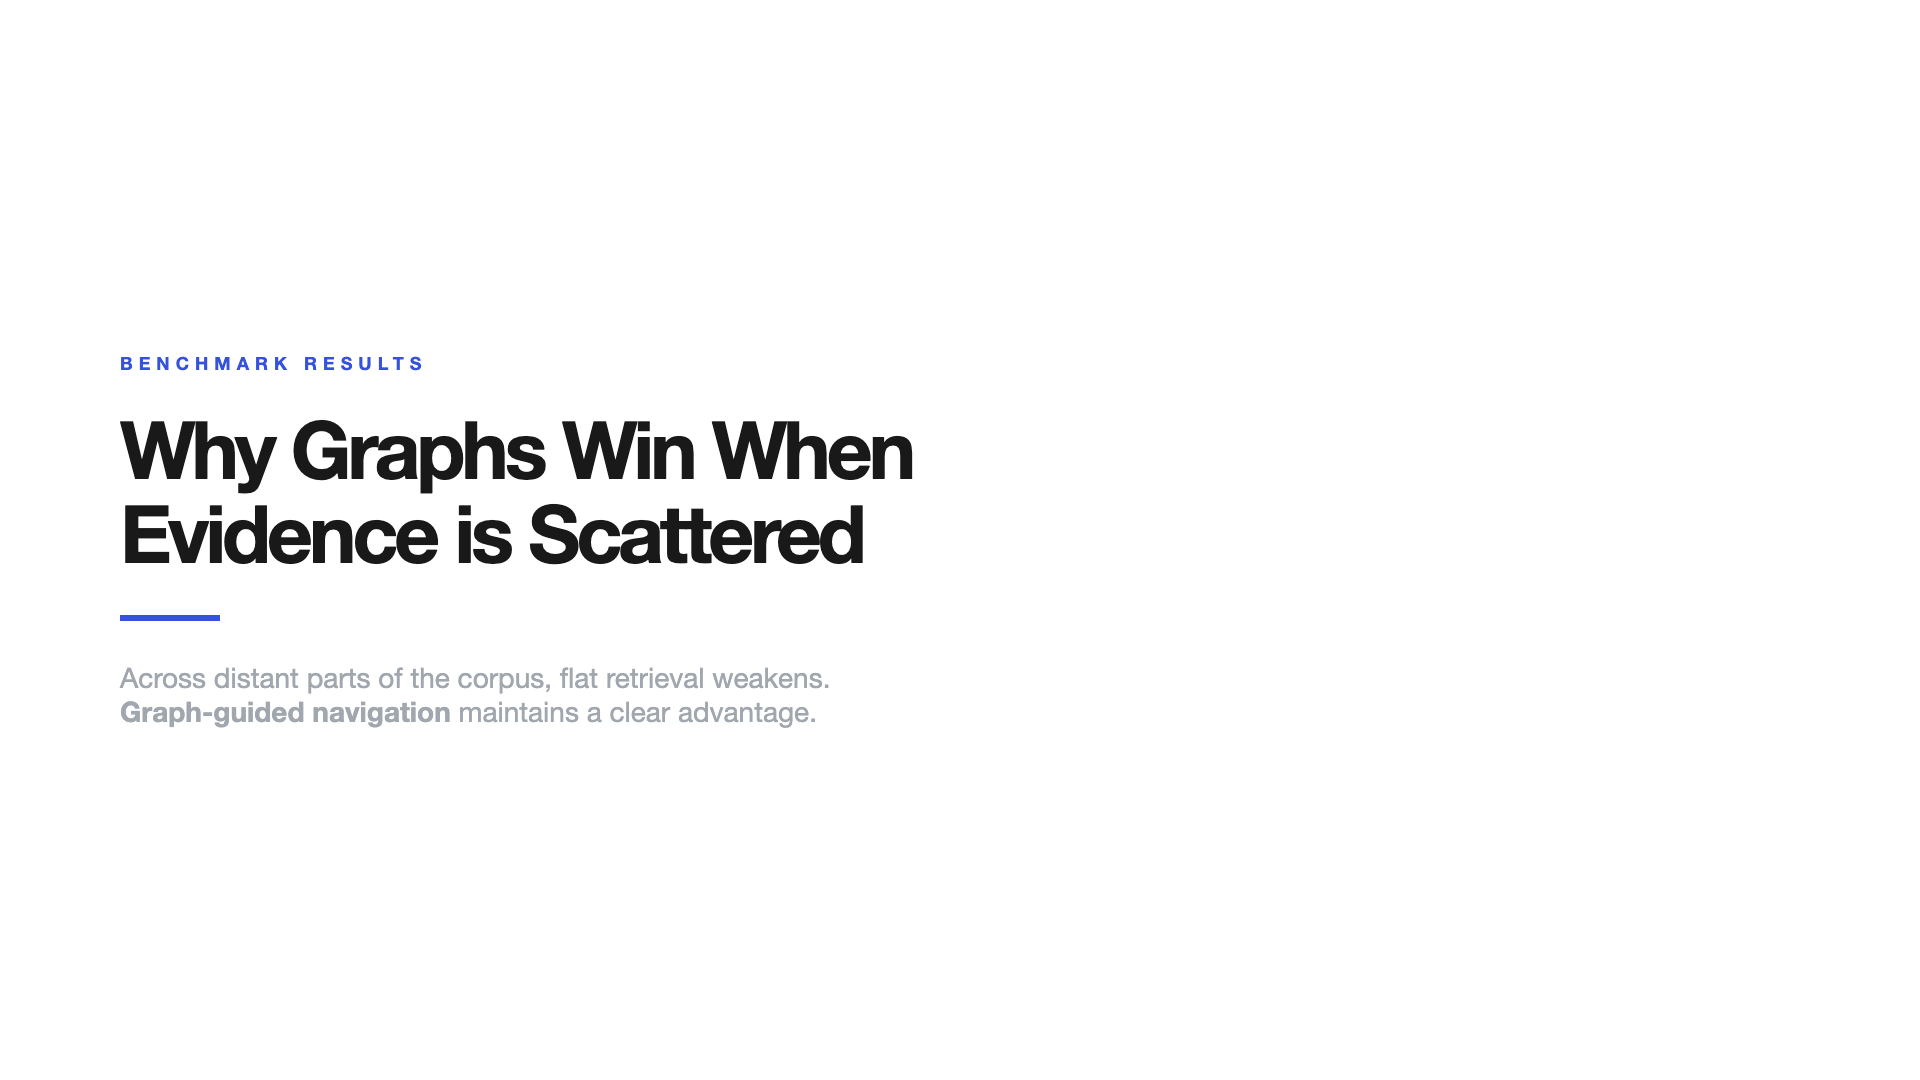
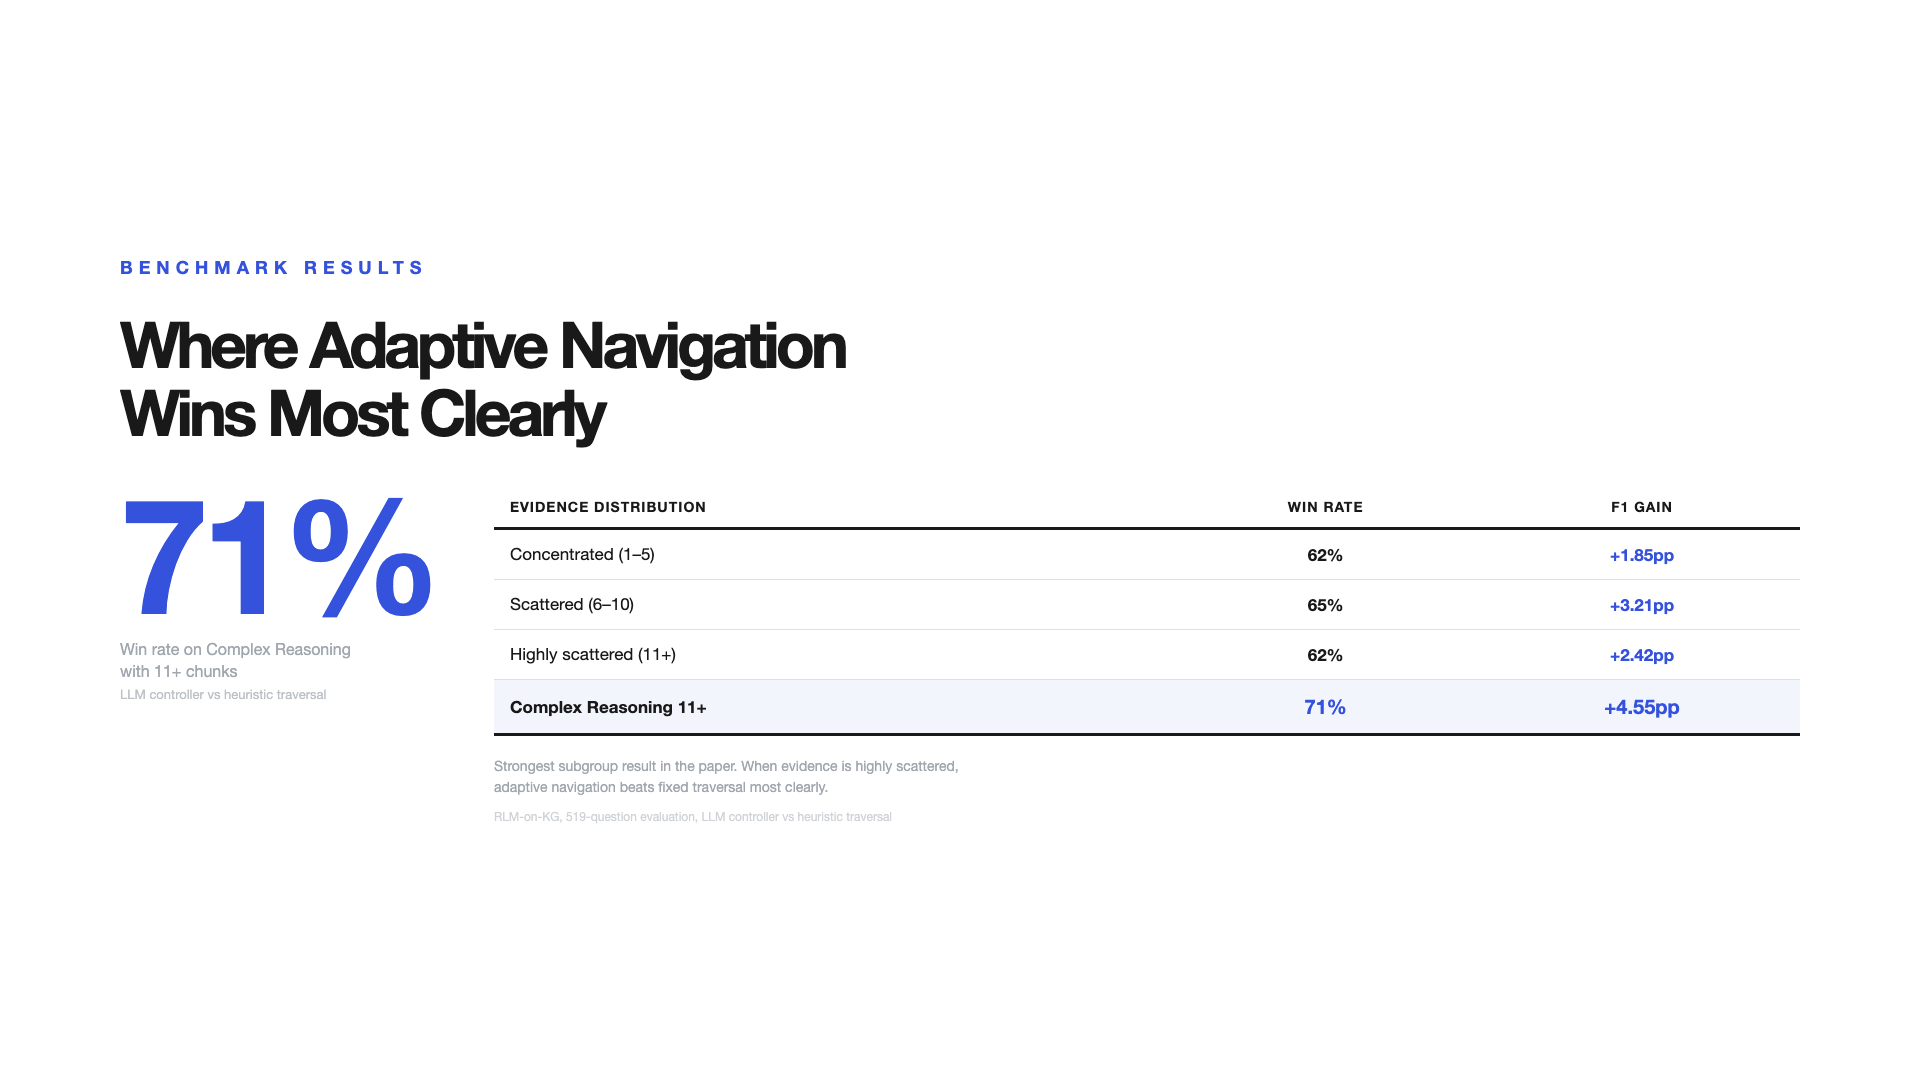
feat: revised slide 22 with 71% benchmark data table and updated copy

diff --git a/generate_slides_v2_bold.py b/generate_slides_v2_bold.py
@@ -341,11 +341,51 @@ def slide_21():
 def slide_22():
     return light(f"""
     <div class="section">Benchmark Results</div>
-    <div class="h" style="font-size:80px;">Why Graphs Win When<br>Evidence is Scattered</div>
-    <div class="bar" style="width:100px;background:{T['sky']};"></div>
-    <div style="font-size:28px;color:{T['gray']};margin-top:40px;max-width:900px;">
-      Across distant parts of the corpus, flat retrieval weakens.<br>
-      <b>Graph-guided navigation</b> maintains a clear advantage.</div>""")
+    <div class="h" style="font-size:64px;margin-bottom:40px;">Where Adaptive Navigation<br>Wins Most Clearly</div>
+    <div style="display:flex;gap:60px;align-items:flex-start;">
+      <!-- LEFT: Big number -->
+      <div style="flex:0 0 280px;">
+        <div style="font-size:160px;font-weight:900;line-height:0.85;letter-spacing:-8px;color:{T['sky']};">71%</div>
+        <div style="font-size:16px;color:{T['gray']};margin-top:16px;line-height:1.4;">
+          Win rate on Complex Reasoning<br>with 11+ chunks<br>
+          <span style="font-size:13px;color:{T['gray']};opacity:0.7;">LLM controller vs heuristic traversal</span></div>
+      </div>
+      <!-- RIGHT: Table -->
+      <div style="flex:1;">
+        <table style="width:100%;border-collapse:collapse;font-size:17px;color:{T['dark2']};">
+          <tr style="border-bottom:3px solid {T['dark2']};">
+            <th style="text-align:left;padding:12px 16px;font-weight:900;font-size:14px;letter-spacing:1px;text-transform:uppercase;">Evidence Distribution</th>
+            <th style="text-align:center;padding:12px 16px;font-weight:900;font-size:14px;letter-spacing:1px;text-transform:uppercase;">Win Rate</th>
+            <th style="text-align:center;padding:12px 16px;font-weight:900;font-size:14px;letter-spacing:1px;text-transform:uppercase;">F1 Gain</th>
+          </tr>
+          <tr style="border-bottom:1px solid #e0e0e0;">
+            <td style="padding:14px 16px;">Concentrated (1–5)</td>
+            <td style="text-align:center;padding:14px 16px;font-weight:700;">62%</td>
+            <td style="text-align:center;padding:14px 16px;color:{T['sky']};font-weight:700;">+1.85pp</td>
+          </tr>
+          <tr style="border-bottom:1px solid #e0e0e0;">
+            <td style="padding:14px 16px;">Scattered (6–10)</td>
+            <td style="text-align:center;padding:14px 16px;font-weight:700;">65%</td>
+            <td style="text-align:center;padding:14px 16px;color:{T['sky']};font-weight:700;">+3.21pp</td>
+          </tr>
+          <tr style="border-bottom:1px solid #e0e0e0;">
+            <td style="padding:14px 16px;">Highly scattered (11+)</td>
+            <td style="text-align:center;padding:14px 16px;font-weight:700;">62%</td>
+            <td style="text-align:center;padding:14px 16px;color:{T['sky']};font-weight:700;">+2.42pp</td>
+          </tr>
+          <tr style="border-bottom:3px solid {T['dark2']};background:rgba(52,82,219,0.06);">
+            <td style="padding:14px 16px;font-weight:900;">Complex Reasoning 11+</td>
+            <td style="text-align:center;padding:14px 16px;font-weight:900;color:{T['sky']};font-size:20px;">71%</td>
+            <td style="text-align:center;padding:14px 16px;font-weight:900;color:{T['sky']};font-size:20px;">+4.55pp</td>
+          </tr>
+        </table>
+        <div style="font-size:14px;color:{T['gray']};margin-top:20px;line-height:1.5;">
+          Strongest subgroup result in the paper. When evidence is highly scattered,<br>
+          adaptive navigation beats fixed traversal most clearly.</div>
+        <div style="font-size:12px;color:{T['gray']};opacity:0.5;margin-top:12px;">
+          RLM-on-KG, 519-question evaluation, LLM controller vs heuristic traversal</div>
+      </div>
+    </div>""")
 
 def slide_23():
     return dark(f"""
